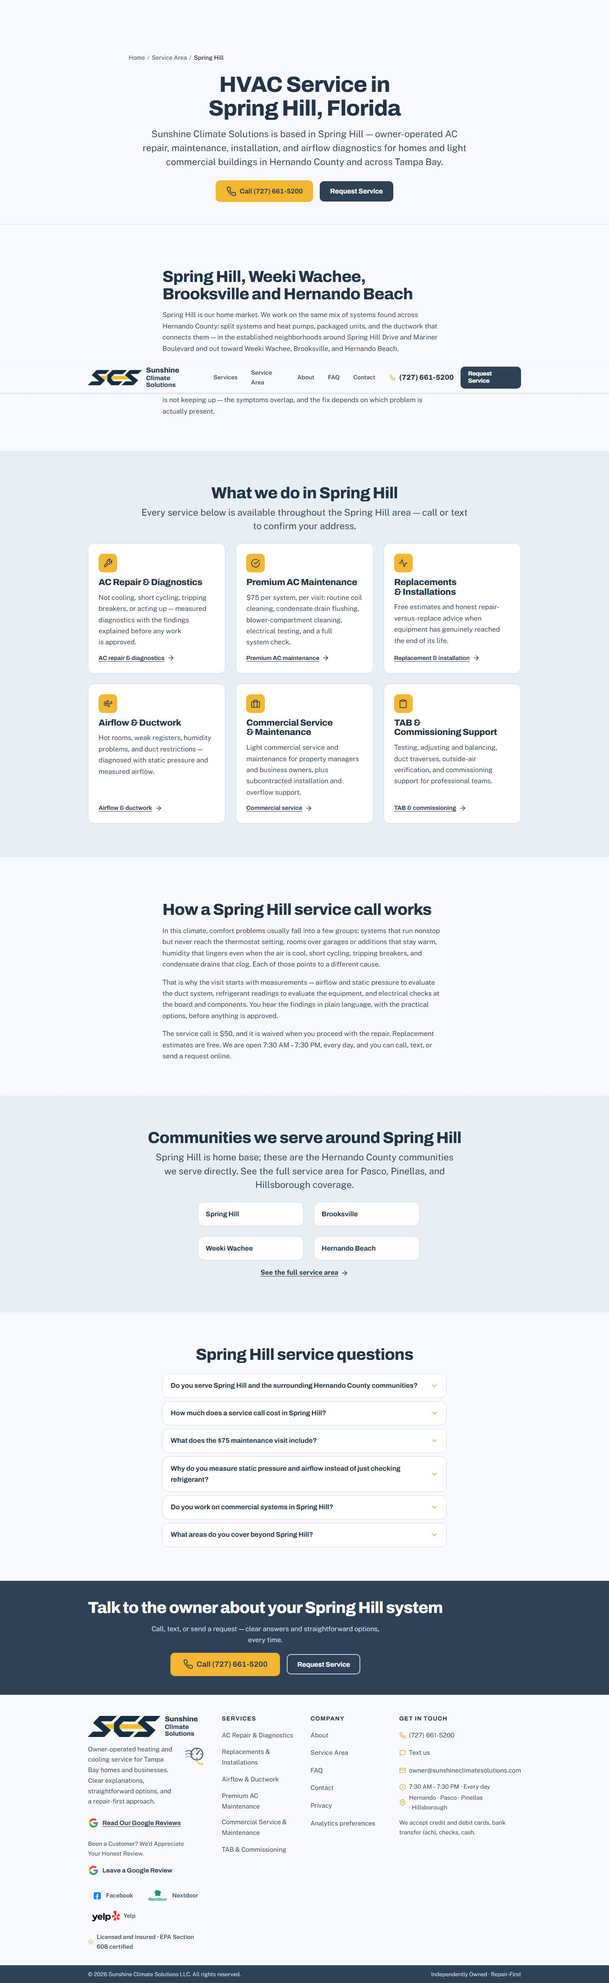
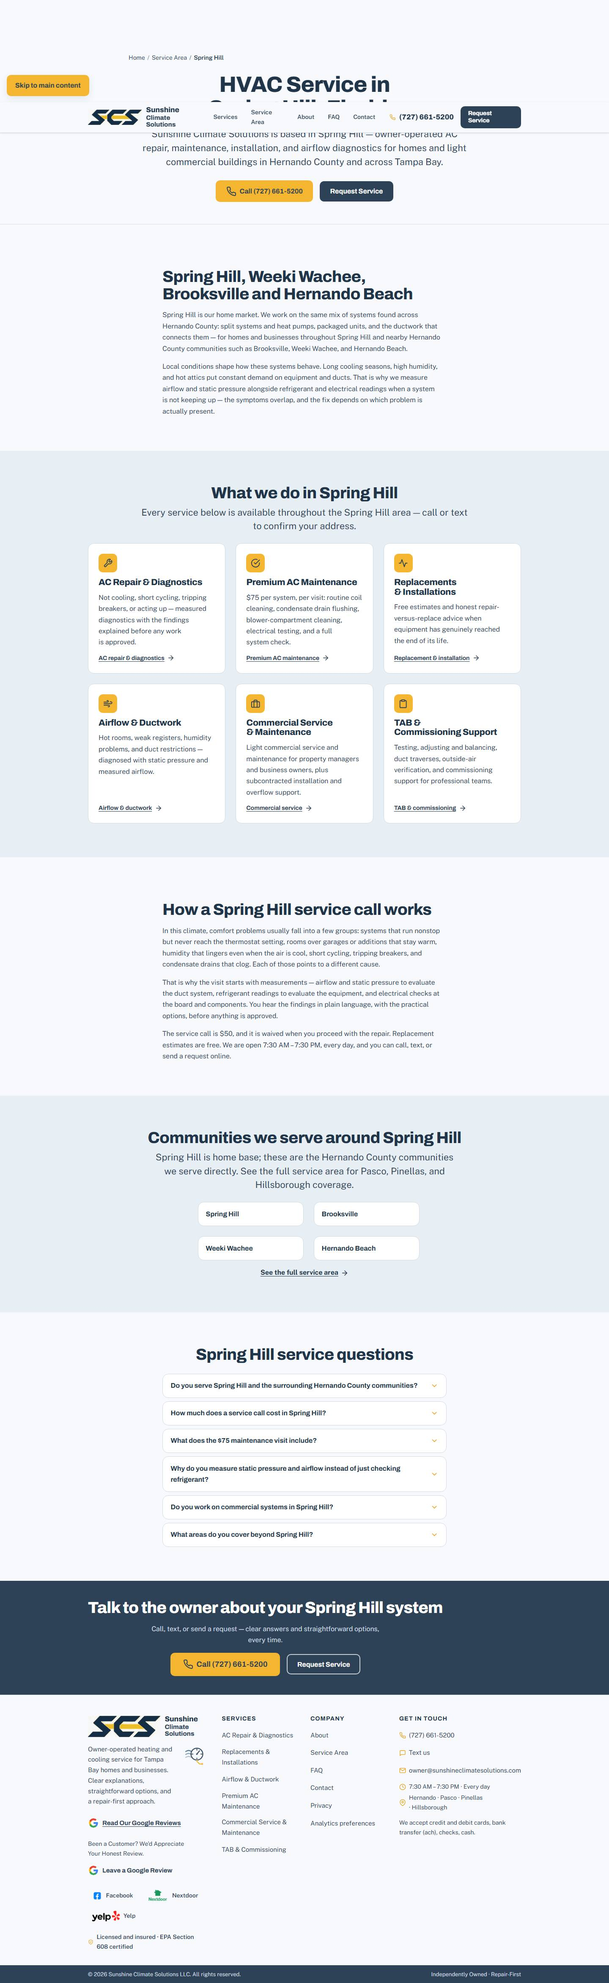
Correct September 2026 SEO audit accuracy: GBP locality unverified, Bing/Apple as external opportunities, tighter meta descriptions and Spring Hill hub copy

diff --git a/SEO_MASTER_AUDIT_SEPT_2026.md b/SEO_MASTER_AUDIT_SEPT_2026.md
@@ -12,10 +12,17 @@ search. This pass created the missing search architecture without violating the 
 truthfulness rules: a keyword universe and page map, five diagnostic FAQs, localized titles on
 the residential service pages, internal links between sibling intents, `Service` +
 `BreadcrumbList` structured data with visible breadcrumbs, and — most importantly — **one
-genuinely useful primary-market hub for Spring Hill** instead of a city-page farm. The
-highest-impact remaining problems are off-site and owner-controlled: a Google Business Profile
-pin that appears ~20 miles south of the market, missing Bing/Apple listings, and a Yelp city
-mismatch. No rankings are promised; no data was fabricated.
+genuinely useful primary-market hub for Spring Hill** instead of a city-page farm.
+
+### How to read this report (three separate tracks)
+
+| Track | What it covers | Current state |
+| --- | --- | --- |
+| **TECHNICAL SEO** | Crawlability, canonicals, sitemap/robots, titles/H1s, schema validity, links, performance hygiene | **Clean — no Critical/High defects.** One optional item (`www → apex` redirect; canonical already mitigates). Verified by `verify-seo` 25/25 and the full suite |
+| **LOCAL SEO** | Primary-market relevance, keyword-to-page ownership, hub/service content, local internal linking | **Improved this pass** (Spring Hill hub, localized titles, FAQs, breadcrumbs). Next gains depend on real query data |
+| **EXTERNAL PLATFORM / CITATION OPPORTUNITIES** | GBP locality consistency (unverified), Yelp locality, Bing Places / Apple Business Connect, chambers/directories | **Owner verification/opportunity items** — not production blockers; missing Bing/Apple presence does not prevent Google organic ranking but expands search/map visibility and entity consistency |
+
+No rankings are promised; no data was fabricated.
 
 ## CURRENT SEARCH POSITION
 
@@ -41,18 +48,31 @@ mismatch. No rankings are promised; no data was fabricated.
 
 ## WHAT IS HOLDING SCS BACK
 
-1. **GBP pin/location** appears ~20 miles off-market (owner fix; highest local impact).
-2. **No Bing Places / Apple Business Connect** presence (owner fix).
-3. **Thin citation footprint** overall (new business; expected).
-4. **Yelp city says "brooksville"** (owner fix).
-5. **Previously thin service-area page** and unlocalized residential titles (fixed in this pass).
-6. **No GSC/GBP measurement loop yet** (owner export enables it).
+**Technical SEO:** nothing material — the site is crawlable, canonical, schema-valid, and
+fast. The only optional technical item is the `www → apex` redirect (canonical already handles
+duplicate-host risk).
+
+**Local SEO:** previously thin service-area content and unlocalized residential titles (fixed
+in this pass); the remaining gap is measurement — there is no Search Console/GBP data loop
+yet, so priorities are strategic hypotheses rather than data-ranked.
+
+**External platform / citation opportunities (owner, not blockers):**
+1. **GBP locality consistency to verify** — public data shows a locality/geographic
+   inconsistency that should be checked against the authenticated profile. **The actual GBP
+   pin has not been independently verified by this audit**; do not move it based on
+   third-party data alone.
+2. **Yelp locality** — verify the city field; correct only if actually wrong.
+3. **Bing Places / Apple Business Connect** — worthwhile external-distribution opportunities;
+   missing presence does not prevent Google organic ranking.
+4. **Thin citation footprint** overall (new business; expected) — Facebook/Nextdoor field
+   completeness is the first step.
 
 ## FASTEST WINS (days)
 
-1. Fix GBP pin/service area + complete every profile field (UTM website link ready).
-2. Claim Bing Places + Apple Business Connect.
-3. Correct Yelp city; complete Facebook details.
+1. Verify the authenticated GBP service-area/location settings and complete every profile
+   field (UTM website link ready); correct only what the authenticated profile confirms.
+2. Verify/correct Yelp locality and complete Facebook/Nextdoor fields.
+3. Create Bing Places + Apple Business Connect (opportunities, not blockers).
 4. Start the review request habit at handoff (QR already exists).
 5. Owner exports GSC + GBP CSVs to backfill the keyword master.
 
@@ -87,9 +107,9 @@ mismatch. No rankings are promised; no data was fabricated.
 
 | Action | Expected mechanism | Potential impact | Effort | Priority | Implemented? | Owner action? | Auditor review? |
 | --- | --- | --- | --- | --- | --- | --- | --- |
-| Fix GBP pin/service area | Correct geo-entity → Maps relevance | High | Low | P0 | No (external) | Yes | No |
-| Bing Places + Apple | Non-Google local surfaces | High | Low | P0 | No (external) | Yes | No |
-| Yelp city correction | Citation consistency | Medium | Low | P1 | No (external) | Yes | No |
+| Verify GBP service-area/location (authenticated) | Confirm or rule out the observed locality inconsistency; fix only if the profile itself shows a problem | Conditional (high if confirmed; none if already correct) | Low | P1 verify | No (external) | Yes | No |
+| Bing Places + Apple Business Connect | External distribution + entity consistency (does not affect Google organic ranking) | Opportunity (not a defect) | Low | P2 opportunity | No (external) | Yes | No |
+| Yelp locality verification/correction | Citation consistency | Medium if wrong | Low | P1 verify | No (external) | Yes | No |
 | Spring Hill hub | Primary-market landing page | High | Done | P0 | **Yes** | No | Yes |
 | Localized titles (airflow/replacement) | Intent + market match | Medium | Done | P1 | **Yes** | No | Yes (variants) |
 | Diagnostic FAQs | Question coverage + funnels | Medium | Done | P1 | **Yes** | No | No |

diff --git a/docs/seo/TECHNICAL-SEO-AUDIT.md b/docs/seo/TECHNICAL-SEO-AUDIT.md
@@ -5,17 +5,20 @@ Method: built output inspection (`scripts/seo-inventory.mjs`), the project's aut
 (https://sunshineclimatesolutions.com, read-only), and the documented history in
 `docs/VERIFICATION.md`. No SEO-tool scores were chased; every finding states its business impact.
 
-Severity: **CRITICAL / HIGH / MEDIUM / LOW / INFORMATIONAL**
+Severity classes for **technical SEO defects**: CRITICAL / HIGH / MEDIUM / LOW / INFORMATIONAL.
+Two items below are deliberately **not** technical defects and use separate classes:
+**VERIFY (external)** = an inconsistency observed in public data that only the authenticated
+platform can confirm; **OPPORTUNITY (external)** = an external-distribution improvement.
 
 ## Findings
 
 | # | Severity | Finding | Impact | Action |
 | --- | --- | --- | --- | --- |
-| 1 | HIGH | **Google Business Profile pin appears to resolve near Tampa/Carrollwood (~28.11, -82.54), ~20 miles south of Spring Hill** (citation research, Sept 2026). For a service-area business Google may approximate the pin, but a wrong city anchor weakens Maps relevance for Spring Hill searches — the primary market. | Local pack visibility for the home market | **Owner action:** open the GBP, confirm/repair the service-area and address display. Repo cannot change this. |
-| 2 | HIGH | **No Bing Places / Apple Business Connect presence observed** (public search). Bing/Copilot and Siri/Apple Maps are blind to the business. | Lost non-Google local visibility | **Owner action:** create/claim both (guide: `docs/seo/OTHER-SEARCH-CHANNELS.md`). |
+| 1 | VERIFY (external) | **Public local-business data shows a locality/geographic inconsistency** (a public place reference resolving near Tampa/Carrollwood, plus a Yelp city of "brooksville") that should be checked against the authenticated Google Business Profile. **The actual GBP map pin has not been independently verified by this audit.** | Local relevance *if* confirmed in the authenticated profile | **Owner action:** open the authenticated Google Business Profile and verify the service-area/location settings. Do not move or change the pin based solely on third-party/local-search data. |
+| 2 | OPPORTUNITY (external) | **No Bing Places / Apple Business Connect presence observed** (public search). Missing presence on Bing Places / Apple Business Connect does not prevent Google organic ranking, but establishing the profiles expands search/map visibility and strengthens entity consistency. | Non-Google visibility (marketing opportunity, not a technical defect) | **Owner action:** create/claim both when convenient (guide: `docs/seo/OTHER-SEARCH-CHANNELS.md`). Production blocker: **no**. |
 | 3 | MEDIUM | **www host serves the site directly (HTTP 200, no host redirect).** Canonical tags correctly point to the apex, so duplicate-index risk is mitigated, but a redirect is the cleaner signal. | Minor duplicate-host dilution | **Owner action (optional):** add the documented `www → apex` Redirect Rule in Cloudflare (`docs/DEPLOYMENT.md`). Not changed here (no Cloudflare authorization). |
 | 4 | MEDIUM | **`/service-area/` was the thinnest indexable page (206 words).** Thin coverage pages are weak targets for coverage queries and waste internal-link equity. | Service-area query coverage | **Implemented:** primary-market hub `/service-area/spring-hill-fl/` (789 words, unique content) + hub links from homepage and service-area; service-area page retained as the county-level overview. |
-| 5 | MEDIUM | **Yelp listing slug says “brooksville” while every other citation says Spring Hill** (public observation). Inconsistent locality signals across citations. | Citation consistency / entity clarity | **Owner action:** correct the Yelp city/address display (no solicited Yelp reviews — policy). |
+| 5 | VERIFY (external) | **Yelp listing slug says “brooksville” while every other citation says Spring Hill** (public observation). Inconsistent locality signals across citations; the listing itself could not be read behind the login/403 wall. | Citation consistency / entity clarity | **Owner action:** open Yelp and verify/correct the locality if it is in fact wrong (no solicited Yelp reviews — policy). |
 | 6 | LOW | **404 page emits `meta robots: index, follow`** but is served with HTTP 404, so it cannot be indexed; canonical points at `/404/`. Harmless but untidy. | None material | Documented; no change (status code governs). |
 | 7 | LOW | **FAQ structured data not emitted.** Google restricts FAQ rich results to authoritative government/health sites; adding markup without eligible rich results adds risk with no gain. | None | Deliberate decision (`STRUCTURED-DATA-AUDIT.md`). |
 | 8 | INFORMATIONAL | **IndexNow is working** — `.github/workflows/indexnow.yml` succeeded on the latest `main` push (verified via GitHub Actions). Bing receives changed URLs automatically. | Non-Google freshness | Keep. |

diff --git a/docs/seo/CITATION-AUDIT.md b/docs/seo/CITATION-AUDIT.md
@@ -6,18 +6,26 @@ means no public evidence was found — it does not prove no unclaimed record exi
 
 ## Most important findings
 
-1. **Google Business Profile pin may be misplaced** (~28.11, -82.54 ≈ Tampa/Carrollwood, ~20 mi
-   south of Spring Hill). Highest-impact fix; owner must verify in the profile.
+1. **Locality/geographic inconsistency in public data — verify against the authenticated GBP.**
+   Public local-business data (a place reference resolving near Tampa/Carrollwood) and the Yelp
+   city field ("brooksville") disagree about locality. **The actual GBP map pin has not been
+   independently verified by this audit.** Open the authenticated Google Business Profile and
+   verify the service-area/location settings; do not move or change the pin based solely on
+   third-party/local-search data.
 2. **Yelp says "brooksville"** in the URL slug while every other citation says Spring Hill.
-   Correct the location display (never solicit Yelp reviews).
-3. **Bing Places and Apple Business Connect are absent** — the business is invisible to
-   Bing/Copilot and Siri/Apple Maps. Both offer free claiming.
+   Verify in the authenticated listing and correct if wrong (never solicit Yelp reviews).
+3. **Bing Places and Apple Business Connect are absent** — a local-distribution **opportunity**,
+   not a technical defect. Missing presence does not prevent Google organic ranking, but
+   establishing the profiles expands search/map visibility and strengthens entity consistency.
+   Both offer free claiming.
 4. **No street address is public anywhere** (consistent service-area operation; the state
    registry address is not on the site). Keep this consistent across platforms; do not publish
    an address unless the owner decides to.
-5. **Facebook details (phone/website/hours) are not visible** in the public snippet — fill them.
+5. **Facebook details (phone/website/hours) are not visible** in the public snippet — owner
+   should verify and fill them.
 6. **The LLC is new** (filed May 20, 2026) — the thin footprint is expected; the priority is
-   the core four (Google, Bing, Apple, Facebook) plus Nextdoor/Yelp consistency.
+   the core profiles (Google, Facebook) plus Nextdoor/Yelp consistency, then Bing/Apple as
+   opportunities.
 
 ## Consistency target (use these exact values)
 
@@ -30,16 +38,20 @@ means no public evidence was found — it does not prove no unclaimed record exi
 | Service area | Hernando, Pasco, Pinellas, Hillsborough counties; Spring Hill home market |
 | Category | HVAC contractor / air conditioning repair (closest match) |
 
-## Owner actions (in priority order)
+## Owner verification actions (in priority order)
 
-1. Google: verify pin/address/service area, categories, hours, phone, website (UTM link).
-2. Bing Places: create/claim (import from Google is supported).
-3. Apple Business Connect: create the location.
-4. Yelp: correct the city; complete phone/website/hours.
-5. Facebook: complete phone/website/hours/service area; use the canonical page URL.
-6. Nextdoor: keep current (already consistent).
+1. **Google (verify, do not move blindly):** open the authenticated profile; verify the
+   service-area/location settings, categories, hours (7:30 AM – 7:30 PM daily), phone, and
+   website (UTM link). Change the pin only if the authenticated profile itself shows a problem.
+2. **Yelp (verify):** confirm the locality; correct only if actually wrong; complete
+   phone/website/hours.
+3. **Facebook (verify):** confirm phone/website/hours/service area; use the canonical page URL.
+4. **Nextdoor:** verify current fields (already consistent in public view).
+5. **Bing Places (opportunity):** create/claim (Google import is supported).
+6. **Apple Business Connect (opportunity):** create the location.
 7. Decide on BBB / Angi / Thumbtack intentionally.
 8. Reconcile the public LinkedIn "Aaron's A/C Solutions" reference if it is stale branding.
 
 No third-party edits were made from this repository, and none should be made without owner
-authorization.
+authorization. Do not claim any external inconsistency is fixed until the owner has actually
+changed it.

diff --git a/docs/seo/PROFESSIONAL-AUDITOR-HANDOFF.md b/docs/seo/PROFESSIONAL-AUDITOR-HANDOFF.md
@@ -3,6 +3,29 @@
 Purpose: make it easy for a professional SEO/content/design auditor to challenge and improve
 this strategy. Everything below points at evidence; nothing here claims rankings.
 
+## Priority review list (please challenge each)
+
+1. **Keyword-to-page ownership** — is one primary page per cluster the right assignment?
+2. **Cannibalization** — do any pages compete for the same commercial query?
+3. **Spring Hill hub** — is it genuinely useful and non-doorway? Should it absorb more?
+4. **Meta/title choices** — current localized titles vs. the variants in `ON-PAGE-AUDIT.md`.
+5. **Brooksville as the next location page** — justified, or premature?
+6. **County-vs-city architecture** — is the single-hub + service-area model right for this
+   market, or should county hubs exist?
+7. **Commercial/TAB targeting across Tampa Bay** — is the B2B positioning strong enough?
+8. **Content depth** — which pages still need genuine depth (not filler)?
+9. **Citation consistency** — locality questions (GBP/Yelp) and the thin footprint.
+10. **Link opportunities** — realistic local authority paths (`LOCAL-LINK-OPPORTUNITIES.csv`).
+11. **Review growth strategy** — policy-safe and practical (`REVIEW-GROWTH-SYSTEM.md`).
+12. **Conversion potential from organic traffic** — will these landing pages actually produce
+    calls/leads?
+
+**Data limitation to keep in mind:** Search Console query data, GBP search-term data, and
+Keyword Planner metrics have **not** been available to this audit. The keyword priorities are
+therefore strategic hypotheses (commercial intent + capability + observed competition) until
+those actual datasets are incorporated and the master keyword file is backfilled. Do not treat
+the current P0–P4 ordering as a quantitative ranking.
+
 ## 1. Business objectives
 
 Qualified organic visibility and calls/texts/requests for: AC repair & diagnostics (repair-first),
@@ -39,8 +62,12 @@ None available. Owner should export Queries + Pages (3 months) and backfill
 
 ## 7. GBP findings
 
-Pin appears near Tampa/Carrollwood (~20 mi from Spring Hill) — highest-impact owner fix.
-Profile fields unverifiable without login. Checklist: `GBP-OPTIMIZATION-CHECKLIST.md`.
+Public local-business data shows a **locality/geographic inconsistency** (a public place
+reference near Tampa/Carrollwood, plus a Yelp city of "brooksville") that should be checked
+against the authenticated Google Business Profile. **The actual GBP map pin has not been
+independently verified by this audit**, and no pin change should be made based solely on
+third-party data. Profile fields are unverifiable without login. Checklist:
+`GBP-OPTIMIZATION-CHECKLIST.md`.
 
 ## 8. Keyword Planner findings
 
@@ -48,9 +75,12 @@ None available (no authenticated access). Volume/CPC columns are `NOT AVAILABLE`
 
 ## 9. Technical findings
 
-12 findings, no CRITICAL. Highlights: GBP pin (HIGH), Bing/Apple absence (HIGH), www redirect
-(optional, canonical mitigates), thin service-area page (fixed via hub), Yelp city mismatch.
-Full table: `TECHNICAL-SEO-AUDIT.md`.
+No CRITICAL or HIGH technical defects. Technical items: optional `www → apex` redirect
+(canonical mitigates), previously thin service-area page (fixed via hub), 404 meta tidiness,
+FAQ-schema decision, thin `/leave-review/`. Separately: one **VERIFY (external)** item (GBP
+locality — authenticated profile not yet checked) and one **OPPORTUNITY (external)** item
+(Bing Places / Apple Business Connect; does not prevent Google organic ranking). Full table:
+`TECHNICAL-SEO-AUDIT.md`.
 
 ## 10. On-page changes
 

diff --git a/docs/seo/LOCAL-PAGE-ROADMAP.md b/docs/seo/LOCAL-PAGE-ROADMAP.md
@@ -7,7 +7,7 @@ page is only justified when it can be genuinely useful beyond swapping a city na
 
 | City / market | Importance | Proximity | Demand signal | Competition | Current visibility | Unique content | Revenue | Local proof | Link value | Total /45 | Class |
 | --- | --- | --- | --- | --- | --- | --- | --- | --- | --- | --- | --- |
-| **Spring Hill** | 5 | 5 | 4 (observed queries; wrong-state pollution) | 4 | 2 (GBP pin issue) | 4 | 5 | 3 | 5 | **37** | **A — implemented** |
+| **Spring Hill** | 5 | 5 | 4 (observed queries; wrong-state pollution) | 4 | 2 (locality consistency to verify in GBP) | 4 | 5 | 3 | 5 | **37** | **A — implemented** |
 | Brooksville | 4 | 5 | 3 (observed) | 3 | 2 | 3 | 3 | 2 | 4 | 29 | B — deferred |
 | New Port Richey / Port Richey | 3 | 4 | 3 (observed) | 2 (templated-heavy) | 1 | 2 | 3 | 1 | 3 | 22 | B — deferred |
 | Wesley Chapel | 3 | 3 | 3 (observed) | 2 | 1 | 2 | 3 | 1 | 3 | 21 | B — deferred |
@@ -26,8 +26,19 @@ local proof. Demand is a qualitative signal only — no volume data was availabl
 Implemented: `/service-area/spring-hill-fl/` (789 words, unique content, six service cards,
 six local FAQs, community list, breadcrumbs, `BreadcrumbList` schema). Content is strictly
 factual: home market, system types, Florida climate context, pricing/process from
-`business.ts`, confirmed communities. No fabricated jobs, counts, response times, or
-neighborhood projects.
+`business.ts`, confirmed communities. No fabricated jobs, counts, response times,
+neighborhoods, or projects.
+
+**Hub quality re-check (final pass):**
+- Title/H1 target *local HVAC service* intent ("HVAC Service in Spring Hill"), not service head
+  terms — no cannibalization of repair/maintenance/replacement/airflow/commercial/TAB.
+- The six service cards link out to the owning pages; the hub does not reproduce their bodies.
+- The word "Spring Hill" appears naturally (title, H1, lead, intro, communities, FAQs) — not
+  stuffed; no exact-match repetition loops.
+- No hyperlocal claims: hyper-specific street/neighborhood references were removed in the
+  final pass; only owner-confirmed communities remain (Spring Hill, Brooksville, Weeki Wachee,
+  Hernando Beach).
+- Internal links: hub → services (6), hub → service area; homepage + service-area page → hub.
 
 ### CLASS B — support meaningfully, defer dedicated pages
 Brooksville, New Port Richey, Wesley Chapel, Tampa:

diff --git a/docs/seo/GBP-OPTIMIZATION-CHECKLIST.md b/docs/seo/GBP-OPTIMIZATION-CHECKLIST.md
@@ -4,14 +4,15 @@ The repository cannot change GBP. Everything below is an **owner action** in
 <https://business.google.com>. Use the exact UTM links from the UTM system (regenerated by
 `npm run marketing:links`; canonical copy: `docs/marketing/WHERE-TO-PASTE-UTM-LINKS.md`).
 
-## ⚠ Priority fixes (from the September citation research)
+## ⚠ Priority verification items (from the September citation research)
 
-1. **Verify the map pin / location display.** Public research resolves the place near
-   ~28.11, -82.54 (Tampa/Carrollwood area), roughly 20 miles south of Spring Hill. For a
-   service-area business Google may approximate the pin, but if the profile shows the wrong
-   city/area, Maps relevance for Spring Hill searches suffers. **Owner: open the profile →
-   Edit profile → check address/service area, confirm the service area includes Hernando
-   County and the listed communities, and correct if wrong.**
+1. **Verify the service-area/location settings in the authenticated profile.** Public
+   local-business data shows a locality/geographic inconsistency that should be checked
+   against the authenticated Google Business Profile. **The actual GBP map pin has not been
+   independently verified by this audit.** Owner: open the profile → Edit profile → review
+   address/service area; confirm the service area includes Hernando County and the listed
+   communities. **Do not move or change the pin based solely on third-party/local-search
+   data** — change it only if the authenticated profile itself shows a problem.
 2. **Primary category** must be the closest match (e.g., "HVAC contractor" or "Air
    conditioning repair service"); add secondary categories only where accurate (e.g.,
    "Heating contractor", "Commercial refrigeration service" only if genuinely offered).

diff --git a/src/content/site/spring-hill.md b/src/content/site/spring-hill.md
@@ -1,9 +1,8 @@
 ---
 metaTitle: HVAC Service in Spring Hill, FL
 metaDescription: >-
-  Owner-operated HVAC service in Spring Hill, Florida — AC repair and diagnostics, $75
-  maintenance visits, replacement estimates, airflow and ductwork troubleshooting, and light
-  commercial support. $50 service call, waived when you proceed with the repair.
+  HVAC service in Spring Hill, FL for AC repair, $75 maintenance, replacement, airflow and
+  ductwork. Owner-operated, repair-first service.
 cityHub:
   hero:
     heading: HVAC Service in Spring Hill, Florida
@@ -17,8 +16,8 @@ cityHub:
       - >-
         Spring Hill is our home market. We work on the same mix of systems found across Hernando
         County: split systems and heat pumps, packaged units, and the ductwork that connects
-        them — in the established neighborhoods around Spring Hill Drive and Mariner Boulevard
-        and out toward Weeki Wachee, Brooksville, and Hernando Beach.
+        them — for homes and businesses throughout Spring Hill and nearby Hernando County
+        communities such as Brooksville, Weeki Wachee, and Hernando Beach.
       - >-
         Local conditions shape how these systems behave. Long cooling seasons, high humidity,
         and hot attics put constant demand on equipment and ducts. That is why we measure

diff --git a/src/content/services/replacement-installation.md b/src/content/services/replacement-installation.md
@@ -1,13 +1,12 @@
 ---
 title: Replacements & Installations
-metaTitle: AC Replacement & Installation in Spring Hill & Tampa Bay
+metaTitle: AC Replacement & Installation in Spring Hill
 summary: >-
   When equipment has genuinely reached the end, we size and quote straightforward options — free
   estimates and honest advice about repair versus replace.
 metaDescription: >-
-  AC and heat pump replacement and installation in Spring Hill and across Tampa Bay. Free
-  estimates, options explained in plain language, and honest repair-versus-replace advice from an
-  owner-operated company.
+  AC and heat pump replacement and installation in Spring Hill and across Tampa Bay.
+  Free estimates and honest repair-versus-replace advice.
 icon: thermometer
 order: 2
 ---

diff --git a/src/content/site/tab.md b/src/content/site/tab.md
@@ -2,9 +2,9 @@
 # TAB & commissioning page copy. Rendered by src/pages/tab-commissioning-support.astro.
 metaTitle: TAB & Commissioning Support in Tampa Bay | Sunshine Climate Solutions
 metaDescription: >-
-  Air and hydronic testing, adjusting, and balancing; airflow measurements and
-  balancing reports; duct traverses; outside-air verification; building-pressure
-  checks; and commissioning support for professional teams.
+  TAB and commissioning support for Tampa Bay teams: air and hydronic balancing,
+  airflow measurement, duct traverses, outside-air verification, and
+  building-pressure checks.
 
 hero:
   eyebrow: For Contractors, Engineers & Property Teams

diff --git a/src/content/services/airflow-ductwork.md b/src/content/services/airflow-ductwork.md
@@ -5,9 +5,8 @@ summary: >-
   Hot rooms, weak airflow, and humidity trouble usually have measurable causes. Airflow
   diagnostics are one of our core strengths — we check the whole air path, not just the box.
 metaDescription: >-
-  Airflow and ductwork troubleshooting in Spring Hill and across Tampa Bay: hot rooms, weak
-  registers, humidity problems, duct leakage, and balancing. Owner-operated diagnostics with
-  clear explanations and free estimates.
+  Hot rooms, weak airflow, humidity, and duct problems in Spring Hill and across
+  Tampa Bay — diagnosed with static pressure and measured airflow. Free estimates.
 icon: wind
 order: 3
 ---

diff --git a/src/content/services/ac-repair-diagnostics.md b/src/content/services/ac-repair-diagnostics.md
@@ -5,9 +5,8 @@ summary: >-
   Not cooling, short cycling, or acting up? Real diagnostics with findings explained in plain
   language — $50 service call, waived when you proceed with the repair.
 metaDescription: >-
-  AC repair and diagnostics in Spring Hill and across Tampa Bay. Owner-operated, repair-first
-  troubleshooting with clear pricing: $50 service call, waived when you proceed with the
-  repair. Free estimates.
+  AC repair and diagnostics in Spring Hill and across Tampa Bay. Repair-first
+  troubleshooting; $50 service call, waived when you proceed with the repair.
 icon: wrench
 order: 1
 ---

diff --git a/src/content/services/ac-maintenance.md b/src/content/services/ac-maintenance.md
@@ -6,9 +6,9 @@ summary: >-
   cleaning, condensate drain flushing, blower-compartment cleaning, electrical testing and
   an evaluation of your system's operation.
 metaDescription: >-
-  $75 per system, per visit: routine coil cleaning, condensate drain flushing,
-  blower-compartment cleaning, electrical testing and a full system check. Spring Hill
-  based, serving Tampa Bay. Call (727) 661-5200.
+  $75 per system, per visit: coil cleaning, drain flush, blower-compartment
+  cleaning, electrical testing and a full system check. Spring Hill based,
+  serving Tampa Bay.
 icon: shield
 order: 3
 ---
